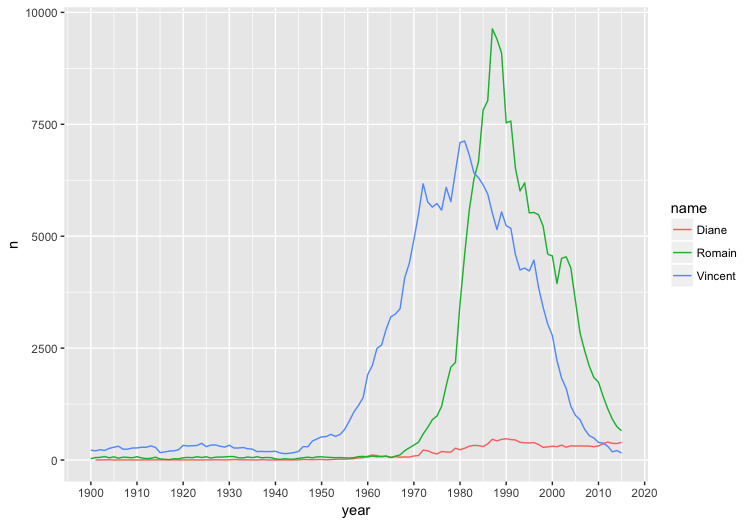
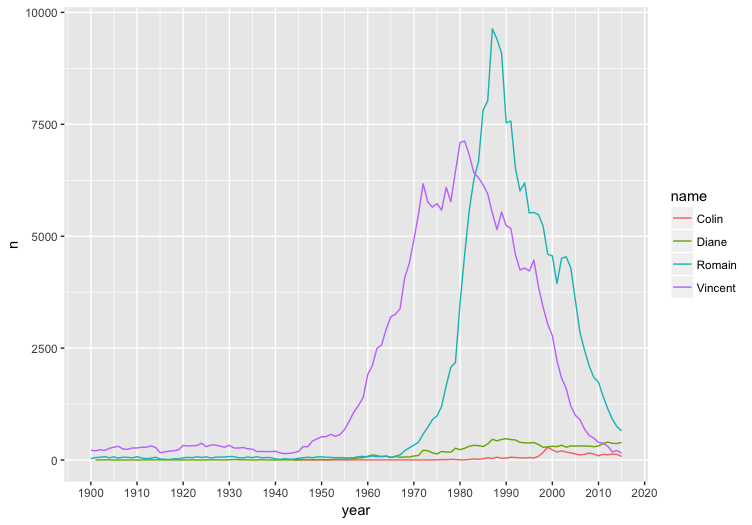
Update REAME.md to include Colin

diff --git a/README.md b/README.md
@@ -3,11 +3,11 @@
 First names given to babies in metropolitan France between 1900 and 2015. 
 
 ```
-install_github( "ThinkRstat/prenoms" )
+devtools::install_github( "ThinkRstat/prenoms" )
 library("prenoms")
 ```
 
-For example, names from current [ThinkR](http://thinkr.fr) staff 
+For example, names from current [ThinkR](http://thinkr.fr) staff [Colin](https://github.com/colinfay),
 [Diane](https://github.com/DianeBeldame), [Romain](https://github.com/romainfrancois) &
 [Vincent](https://github.com/VincentGuyader) through time. 
 
@@ -15,7 +15,8 @@ For example, names from current [ThinkR](http://thinkr.fr) staff
 library("ggplot2")
 library("dplyr")
 thinkrs <- prenoms %>%
-  filter( 
+  filter(
+    name == "Colin"   & sex == "M" |
     name == "Diane"   & sex == "F" |  
     name == "Romain"  & sex == "M" | 
     name == "Vincent" & sex == "M"   
